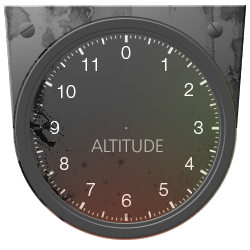
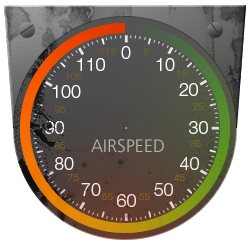
Updated in game UI

diff --git a/Assets/RotateRadarArrow.cs b/Assets/RotateRadarArrow.cs
@@ -1,0 +1,18 @@
+using UnityEngine;
+using System.Collections;
+
+public class RotateRadarArrow : MonoBehaviour
+{
+    public float Speed; 
+	// Use this for initialization
+	void Start () {
+	
+	}
+	
+	// Update is called once per frame
+	void Update () {
+	    
+        transform.Rotate(0,0, Time.deltaTime*Speed);
+
+	}
+}
